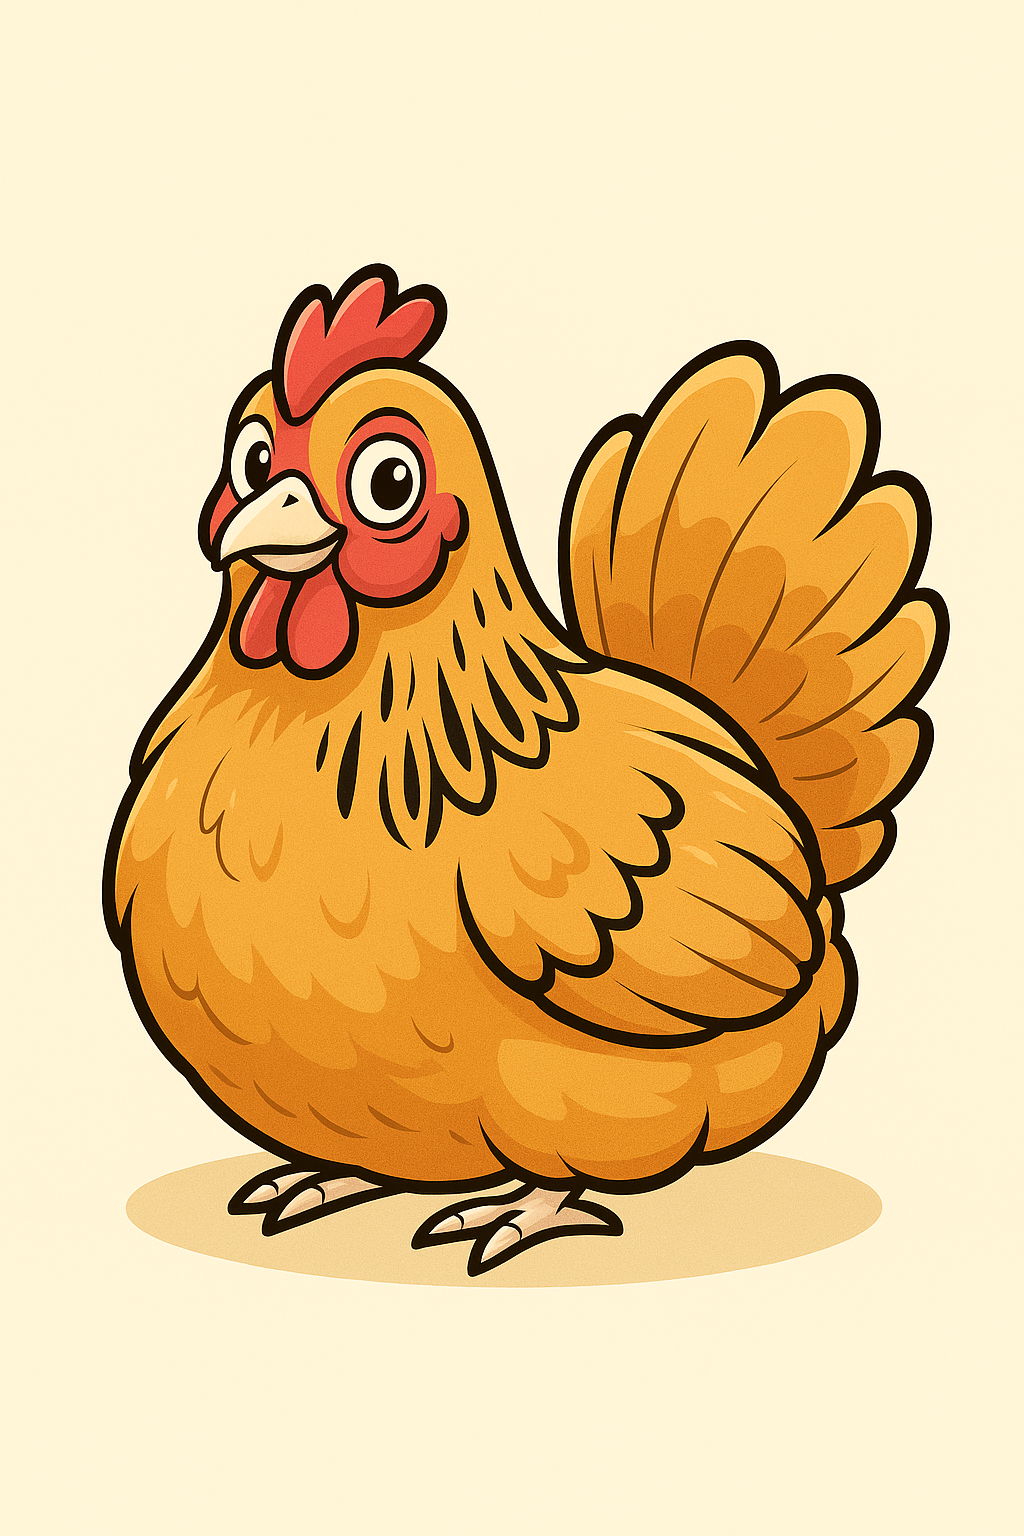
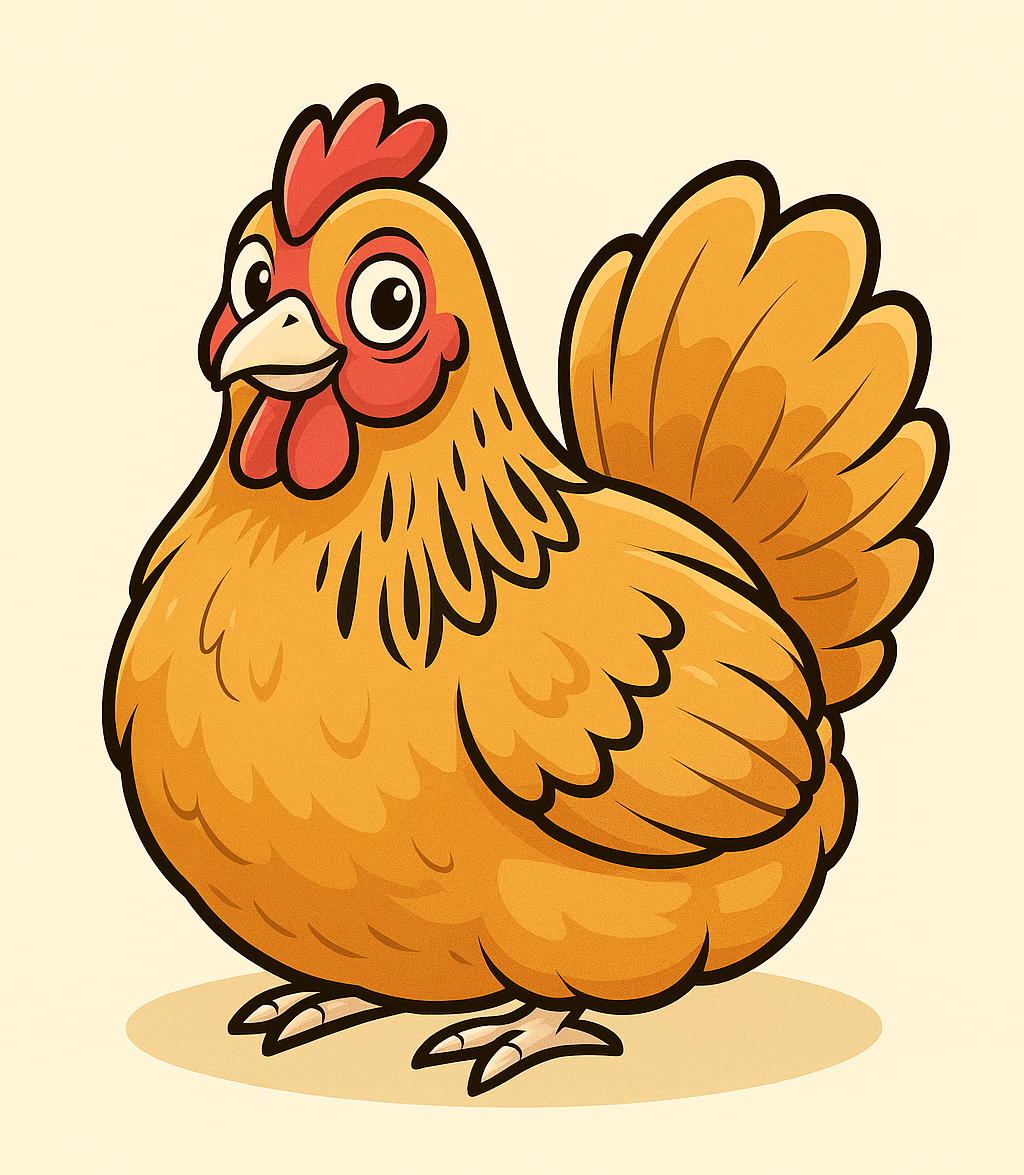
Smaller front page image

diff --git a/index.md b/index.md
@@ -5,7 +5,7 @@ title: Taal met Tak
 
 ## Mijn naam is Tak. Ik kan alles, dus kan ik jou ook taal leren!
 
-![Tak]({{ "/assets/Tak.png" | relative_url }})
+<img src="{{ '/assets/Tak.png' | relative_url }}" alt="Tak" style="width:50%; display:block; margin:auto;" />
 
 ## Inhoud
 
